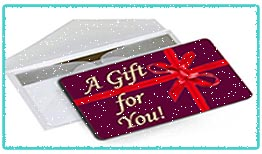
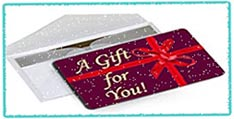
Re-organized main js some more and got both form add buttons functioning

diff --git a/Love_NewApp/index.html b/Love_NewApp/index.html
@@ -16,13 +16,13 @@
     <meta http-equiv="cleartype" content="on">
         
     <!-- StyleSheets under here -->
-        <link rel="stylesheet" href="libs/query.mobile-1.3.2.min.css" />
+        <link rel="stylesheet" href="libs/jquery.mobile-1.3.2.min.css" />
         <link rel="stylesheet" href="themes/entCol.min.css" />
         <link rel="stylesheet" href="css/style.css" type="text/css" />
         
         
     <!-- JavaScript is normally at the end of the body, except for Modernizr which enables HTML5 elements & feature detects -->
-    <script src="libs/modernizr.custom.min.js"></script>
+    
 </head>
 
 <body>
@@ -33,7 +33,7 @@
             
             <section data-role="content">
                 <p style="text-align: center"><strong>Organize Your Gift Ideas And The Gifts You Give In One Convenient Place</strong></p>
-                <!--img src="img/card.jpg" style="text-align: center" alt="giftcardimage"/-->
+                <img src="img/card.jpg" style="vertical-align:middle" alt="giftcardimage"/>
             </section>
             
             <nav>
@@ -89,7 +89,7 @@
                     <!--Date Purchased-->
                     <section data-role="fieldcontain">
                         <label for="purchased">Date Purchased</label>
-                        <input type="date" name="purchased" id="purchased" placeholder="YYYY-MM-DD" />
+                        <input type="date" name="purchased" id="purchased" />
                     </section><!--Date Purchased End-->
                     
                     <!--Store Purchased-->
@@ -162,6 +162,7 @@
             <section data-role="content">
                  <p style="text-align: center">Learn something new? Update it!</p>
                 <form action="" method="post" id="infoForm">
+                    <input type="hidden" id="key" value=""></input>
                     
                     <!--For Who-->
                     <section data-role="fieldcontain">
@@ -172,44 +173,43 @@
                     <!--Birthday-->
                     <section data-role="fieldcontain">
                         <label for="birthday">Birthday</label>
-                        <input type="date" name="birthday" id="birthday" placeholder="Enter Birthday" />
+                        <input type="date" name="birthday" id="birthday" />
                     </section><!--Birthday End-->
                     
                     <!--Spiritual Birthday-->
                     <section data-role="fieldcontain">
                         <label for="baptism">Spiritual Birthday</label>
-                        <input type="date" name="baptism" id="baptism" placeholder="Date of Baptism" />
+                        <input type="date" name="baptism" id="baptism" />
                     </section><!--Spiritual Birthday End-->
                     
                     <!--Anniversary-->
                     <section data-role="fieldcontain">
                         <label for="anniversary">Anniversary</label>
-                        <input type="date" name="anniversary" id="anniversary" placeholder="Enter Anniversary" />
+                        <input type="date" name="anniversary" id="anniversary"/>
                     </section><!--Anniversary End-->
                     
                     <!--Favorites-->
                     <section data-role="fieldcontain">
                         <label for="favs">Favorite Things</label>
-                        <textarea name="favs" id="favs"  type="text" placeholder="Enter All Favorite Things"></textarea>
+                        <textarea name="favs" id="favs" placeholder="Enter All Favorite Things"></textarea>
                     </section><!--Favorite Things End-->
                     
                     <!--Interest and Hobbies-->
                     <section data-role="fieldcontain">
                         <label for="hobby">Interests &amp; Hobbies</label>
-                        <textarea name="hobby" id="hobby" type="text" placeholder="Enter All Interest &amp; Hobbies"></textarea>
+                        <textarea name="hobby" id="hobby" placeholder="Enter All Interest &amp; Hobbies"></textarea>
                     </section><!--Favorite Things End-->
                     
                     <!--Notes-->
                     <section data-role="fieldcontain">
                         <label for="textArea2">Notes:</label>
-                        <textarea name="textArea2" id="textArea2" type="text" placeholder="Additional Notes Here"></textarea>
+                        <textarea name="textArea2" id="textArea2" placeholder="Additional Notes Here"></textarea>
                     </section><!--Notes End-->
                     <!--Submit and Reset Links-->
                     <br/>
                     <nav>
-                        <input type="submit" id="submit2" value="Add Info" />
-                         <br />
-                         <input type="reset" value="Reset" data-mini="true" />
+                        <input type="submit" id="submit2" value="Add Info" /><br />
+                        <input type="reset" value="Reset" data-mini="true" />
                     </nav><!--end submit and reset-->
                     
                 </form> <!--End of Idea Form Page-->
@@ -258,6 +258,7 @@
     <script src="libs/jquery-2.0.3.min.js"></script>
     <script src="libs/jquery.mobile-1.3.2.min.js"></script>
     <script src="libs/jquery.validate.min.js" type="text/javascript"></script>
+    <script src="libs/modernizr.custom.min.js"></script>
     <script src="js/main.js" type="text/javascript"></script>
 </body>
 </html>

diff --git a/Love_NewApp/js/main.js b/Love_NewApp/js/main.js
@@ -27,9 +27,9 @@ var getTheData = function () {
 var autoPopulateData = function () {
     //Actual JSON OBJECT data req.for this to work is coming from data.Json
     //Store the JO into Local Storage
-    for (var n in items) {
-        var id = Math.floor(Math.random() * 100000001);
-        localStorage.setItem(id, JSON.stringify(items[n]));
+    for (var n in json) {
+        id = Math.floor(Math.random() * 100000001);
+        localStorage.setItem(id, JSON.stringify(json[n]));
     }
 }; // End Auto Populate 
 
@@ -42,19 +42,21 @@ var storeData = function (data) {
     }
 
     var detail = {};
-    detail.recipient = $('#recipient').val();
-    detail.occasion = $('#occasion').val();
-    detail.gift = $('#gift').val();
-    detail.purchased = $('#purchased').val();
-    detail.store = $('#store').val();
-    detail.cost = $('#cost').val();
-    detail.notes = $('#textArea').val();
+        detail.recipient = $('#recipient').val();
+        detail.occasion = $('#occasion').val();
+        detail.gift = $('#gift').val();
+        detail.purchased = $('#purchased').val();
+        detail.store = $('#store').val();
+        detail.cost = $('#cost').val();
+        detail.notes = $('#textArea').val();
 
     //Save date to loal storage with Stringify to convert object to strings
     localStorage.setItem(id, JSON.stringify(detail));
     alert("Info Saved!");
-    resetForm();
+    location.reload();
+    //resetForm();
     $.mobile.changePage('#giftList', null, true, true);
+    
 }; // End save to local storage
 
 
@@ -66,24 +68,30 @@ $("#home").on('pageinit', function () {
 // Gift Form Page
 $("#addGift").on('pageinit', function () {
 
-    $('#submit').on('click', function (e) {
+    $('#submit').on('click', function(e) {
         e.preventDefault();
+        
+        storeData();
     }); // End submit prevent default 
+        
+        
+            /*   // Validation
+               var theGift = $('giftForm');
+           
+               theGift.validate({
+                   invalidHandler: function (form, validator) {},
+                   submitHandler: function () {
+                       var data = theGift.serializeArray();
+                       storeData(data);
+                   }
+               }); // End the Gift validate
+            */   
+}); // Gift Form Page End
 
-    // Validation
-    var theGift = $('giftForm');
 
-    theGift.validate({
-        invalidHandler: function (form, validator) {},
-        submitHandler: function () {
-            var data = theGift.serializeArray();
-            storeData(data);
-        }
-    }); // End the Gift validate
-}); 
-
+// Load Json Data
 $('#jsonStorage').on('click', function () {
-    var items = [];
+    //var items = [];
     $.ajax({
         url: "data.json",
         type: "GET",
@@ -115,14 +123,34 @@ $('#xmlStorage').on('click', function () {
 
 
 // Edit Links
-//var editLink = '<a href="#" class="edit" data-key="' + id + '">Edit</a>';
-
 $('.edit').on('click', function () {
     var key = $(this).data('key');
 
     $('span#key').text(key);
-}); // End Edit Link
+}); // End Edit Links
 
+
+
+// Interests and Ideas Page
+$("#addInfo").on('pageinit', function () {
+
+    $('#submit2').on('click', function(e) {
+         e.preventDefault();
+        
+        storeData();
+    });
+
+    $('clear').on('click', function () {
+        location.reload();
+    });
+
+}); // Interests and Ideas Page End
+
+
+
+// Browse Page
+$("#browse").on('pageinit', function () {
+    
 
 // Delete Item
 $('delete').on('click', function () {
@@ -137,7 +165,6 @@ $('delete').on('click', function () {
 }); // End Delete Item
 
 
-
 // Clear Local Storage
 $('clear').on('click', function clearData() {
 if (localStorage.length === 0) {
@@ -150,23 +177,5 @@ if (localStorage.length === 0) {
 }); // End Clear Local Storage 
 
 
-
-// Interests and Ideas Page
-$("#addInfo").on('pageinit', function () {
-
-    $('#submit').on('click', function () {
-        validateData();
-    });
-
-    $('clear').on('click', function () {
-        location.reload();
-    });
-
-}); // Interests and Ideas Page End
-
-
-
-// Browse Page
-$("#browse").on('pageinit', function () {
 
 }); // Browse Page End

diff --git a/Love_NewApp/css/style.css b/Love_NewApp/css/style.css
@@ -6,11 +6,11 @@
 
 label.error{display:block; margin:10px 0; color: #cc0000;}
 
-#entErrorLink{display:none;}
+/*#entErrorLink{display:none;} */
 
 img{
     
-    margin: 0px 5px 0px -7.5px;
+    margin: -10px 0px -12px 27.5px;
     width: auto;
     
 }
